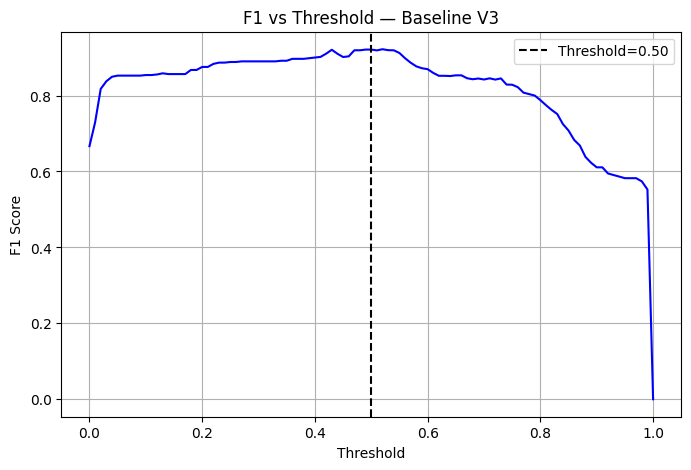
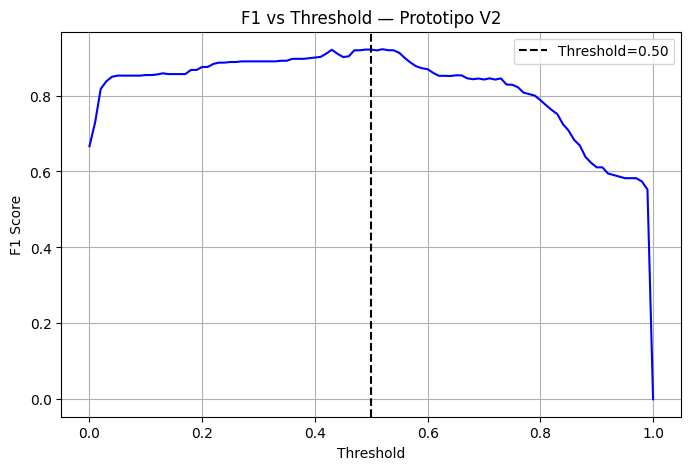
Corrección títulos gráficas

Changed region(s): [[0.3343, 0.0, 0.547, 0.0596], [0.5774, 0.0, 0.7294, 0.0596]]

diff --git a/docs/results.md b/docs/results.md
@@ -53,9 +53,9 @@ Confirma el equilibrio: alta detección con falsos positivos controlados.
 ![](../assets/diagrams/matrix.png)
 
 #### 5.4 Distribución de scores
-Se observa separación entre clases y una “zona gris” esperable. El score es interpretable como riesgo continuo.
+Se observa separación entre clases y una “zona gris” esperable. 
 
-![](../assets/diagrams/scores_clase.png)
+![](../assets/diagrams/clases.png)
 
 #### 5.5 Importancia de señales
 Las señales estructurales e infraestructura dominan; legitimidad actúa como corrección. Coherente con el diseño.
